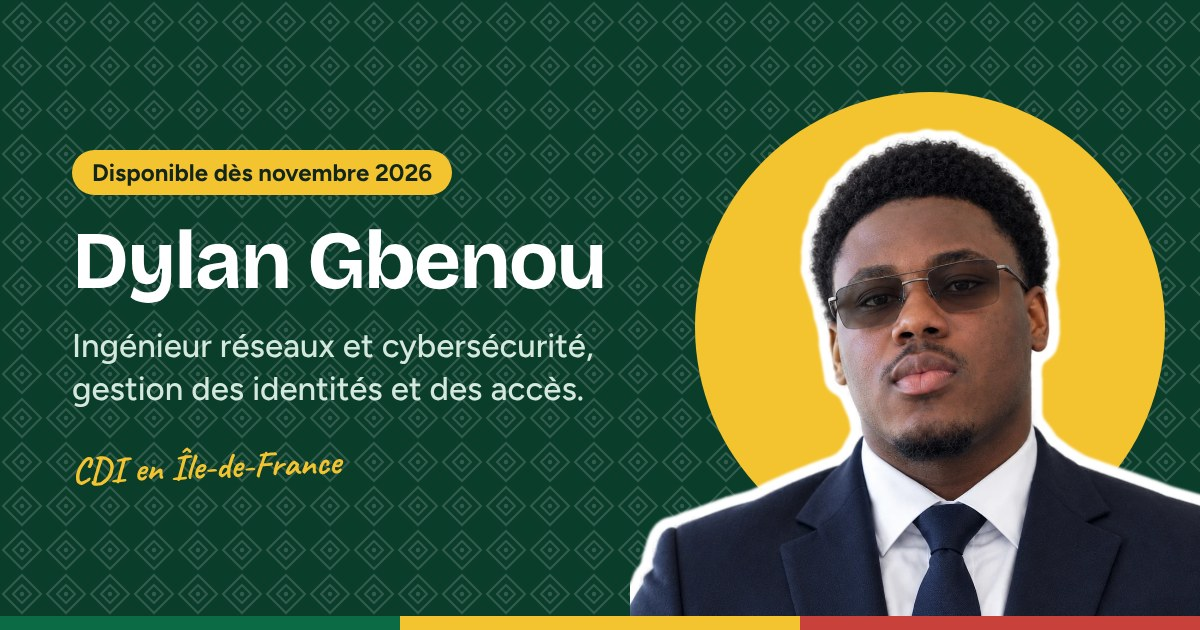
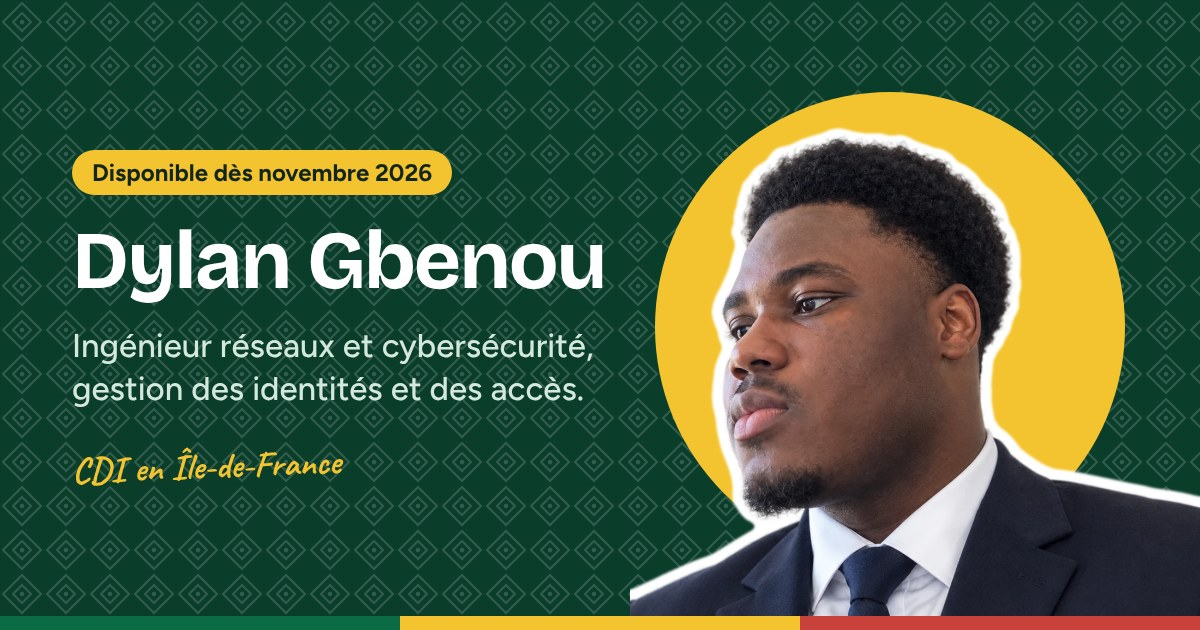
Add files via upload

Changed region(s): [[0.5242, 0.1206, 1.0, 0.9952], [0.8942, 0.8143, 0.925, 0.8444]]

diff --git a/index.html b/index.html
@@ -3,7 +3,7 @@
 <title>Dylan Gbenou, ingénieur réseaux et cybersécurité</title><meta name="description" content="Dylan Maxence Gbenou, ingénieur réseaux et cybersécurité spécialisé en gestion des identités et des accès. Disponible dès novembre 2026 pour un CDI en Île-de-France."><link rel="canonical" href="https://gbenoudylan.github.io/"><meta name="theme-color" content="#F6F8F6"><link rel="icon" type="image/webp" href="assets/avatar.webp"><link rel="apple-touch-icon" href="assets/apple-touch-icon.png">
 <meta property="og:type" content="website"><meta property="og:site_name" content="Dylan Gbenou"><meta property="og:url" content="https://gbenoudylan.github.io/"><meta property="og:title" content="Dylan Gbenou, ingénieur réseaux et cybersécurité"><meta property="og:description" content="Dylan Maxence Gbenou, ingénieur réseaux et cybersécurité spécialisé en gestion des identités et des accès. Disponible dès novembre 2026 pour un CDI en Île-de-France."><meta property="og:locale" content="fr_FR">
 <meta property="og:image" content="https://gbenoudylan.github.io/assets/og-image.jpg"><meta property="og:image:width" content="1200"><meta property="og:image:height" content="630"><meta property="og:image:alt" content="Dylan Gbenou, ingénieur réseaux et cybersécurité, à la recherche d'un CDI en Île-de-France">
-<meta name="twitter:card" content="summary_large_image"><meta name="twitter:title" content="Dylan Gbenou, ingénieur réseaux et cybersécurité"><meta name="twitter:description" content="Dylan Maxence Gbenou, ingénieur réseaux et cybersécurité spécialisé en gestion des identités et des accès. Disponible dès novembre 2026 pour un CDI en Île-de-France."><meta name="twitter:image" content="https://gbenoudylan.github.io/assets/og-image.jpg"><meta name="twitter:image:alt" content="Dylan Gbenou, ingénieur réseaux et cybersécurité, à la recherche d'un CDI en Île-de-France"><script type="application/ld+json">{"@context": "https://schema.org", "@type": "Person", "name": "Dylan Maxence Gbenou", "givenName": "Dylan", "familyName": "Gbenou", "url": "https://gbenoudylan.github.io/", "image": "https://gbenoudylan.github.io/assets/photo-sticker.webp", "jobTitle": "Ingénieur réseaux et cybersécurité (gestion des identités et des accès)", "description": "Ingénieur EIGSI (diplôme en mars 2027), spécialisé dans la gestion des identités et des accès. À la recherche d'un CDI en Île-de-France.", "knowsAbout": ["Cybersécurité", "Gestion des identités et des accès (IAM)", "Réseaux", "Cloud", "Terraform", "Python", "Active Directory"], "alumniOf": {"@type": "CollegeOrUniversity", "name": "EIGSI La Rochelle"}, "sameAs": ["https://www.linkedin.com/in/dylan-maxence-gbenou-709867218/", "https://github.com/gbenoudylan"]}</script>
+<meta name="twitter:card" content="summary_large_image"><meta name="twitter:title" content="Dylan Gbenou, ingénieur réseaux et cybersécurité"><meta name="twitter:description" content="Dylan Maxence Gbenou, ingénieur réseaux et cybersécurité spécialisé en gestion des identités et des accès. Disponible dès novembre 2026 pour un CDI en Île-de-France."><meta name="twitter:image" content="https://gbenoudylan.github.io/assets/og-image.jpg"><meta name="twitter:image:alt" content="Dylan Gbenou, ingénieur réseaux et cybersécurité, à la recherche d'un CDI en Île-de-France"><script type="application/ld+json">{"@context": "https://schema.org", "@type": "Person", "name": "Dylan Maxence Gbenou", "givenName": "Dylan", "familyName": "Gbenou", "url": "https://gbenoudylan.github.io/", "image": "https://gbenoudylan.github.io/assets/photo-sticker-sans-lunettes.webp", "jobTitle": "Ingénieur réseaux et cybersécurité (gestion des identités et des accès)", "description": "Ingénieur EIGSI (diplôme en mars 2027), spécialisé dans la gestion des identités et des accès. À la recherche d'un CDI en Île-de-France.", "knowsAbout": ["Cybersécurité", "Gestion des identités et des accès (IAM)", "Réseaux", "Cloud", "Terraform", "Python", "Active Directory"], "alumniOf": {"@type": "CollegeOrUniversity", "name": "EIGSI La Rochelle"}, "sameAs": ["https://www.linkedin.com/in/dylan-maxence-gbenou-709867218/", "https://github.com/gbenoudylan"]}</script>
 <link rel="preload" href="fonts/bricolage-grotesque-latin-wght-normal.woff2" as="font" type="font/woff2" crossorigin>
 <link rel="preload" href="fonts/figtree-latin-wght-normal.woff2" as="font" type="font/woff2" crossorigin>
 <link rel="preload" as="image" href="assets/photo-clean.webp" type="image/webp" fetchpriority="high"><script>document.documentElement.classList.add('js')</script>
@@ -25,7 +25,7 @@
   </div>
   <div class="portrait">
     <div class="portrait__back" aria-hidden="true"></div>
-    <div class="portrait__frame"><img class="portrait__img" src="assets/photo-clean.webp" width="1100" height="963" alt="Portrait de Dylan Gbenou, en costume sombre, chemise blanche et cravate, lunettes teintées, regardant sur le côté" fetchpriority="high" decoding="async"></div>
+    <div class="portrait__frame"><img class="portrait__img" src="assets/photo-clean.webp" width="1100" height="963" alt="Portrait de Dylan Gbenou, en costume sombre, chemise blanche et cravate, le regard tourné vers le haut et sur le côté" fetchpriority="high" decoding="async"></div>
     <span class="float float--a"><i></i>Gestion des accès</span><span class="float float--b"><i></i>Réseaux</span><span class="float float--c"><i></i>Cloud</span>
     <div class="hello" aria-hidden="true"><span>Enchanté !</span><svg viewBox="0 0 64 48" fill="none" stroke="currentColor" stroke-width="2.6" stroke-linecap="round" stroke-linejoin="round"><path d="M56 6C38 2 14 12 12 36"/><path d="M4 28l8 9 8-10"/></svg></div>
     <div class="portrait__badge"><svg class="badge" viewBox="0 0 120 120" role="img" aria-label="Réseaux, cybersécurité, IAM, cloud" xmlns="http://www.w3.org/2000/svg"><circle cx="60" cy="60" r="58" fill="#F4C430" stroke="#12261D" stroke-width="2.5"/><defs><path id="bdh" d="M60 60 m-41 0 a41 41 0 1 1 82 0 a41 41 0 1 1 -82 0"/></defs><g class="badge__ring" style="transform-origin:60px 60px"><text font-size="11.5" font-weight="700" fill="#12261D" letter-spacing=".2"><textPath href="#bdh" textLength="255" lengthAdjust="spacing">Réseaux · Cybersécurité · IAM · Cloud · </textPath></text></g><g transform="translate(40 38) scale(1.67)" fill="none" stroke="#12261D" stroke-width="1.7" stroke-linecap="round" stroke-linejoin="round"><path d="M12 3l7 3v5c0 4.5-3 8.3-7 10-4-1.7-7-5.5-7-10V6l7-3z" fill="#fff"/><path d="M9.5 12l2 2 3.5-4"/></g></svg></div>

diff --git a/404.html b/404.html
@@ -16,7 +16,7 @@
 </div></header>
 <main id="main">
 <section class="page-head"><div class="wrap"><div class="banner banner--d ">
-  <div class="banner__txt"><h1>Page introuvable</h1><p class="lead">Cette page n'existe pas, ou plus. Pas de panique : l'accueil et les projets sont juste là.</p></div><div class="banner__art banner__art--me"><img src="assets/photo-sticker.webp" width="1100" height="963" alt="Portrait de Dylan Gbenou, de face, en costume sombre et lunettes teintées" loading="lazy" decoding="async"><span class="hand hand--c" style="color:var(--yellow)" aria-hidden="true">Oups !</span></div>
+  <div class="banner__txt"><h1>Page introuvable</h1><p class="lead">Cette page n'existe pas, ou plus. Pas de panique : l'accueil et les projets sont juste là.</p></div><div class="banner__art banner__art--me"><img src="assets/photo-sticker-sans-lunettes.webp" width="1100" height="963" alt="Portrait de Dylan Gbenou, en costume sombre et cravate, le regard tourné vers le haut" loading="lazy" decoding="async"><span class="hand hand--c" style="color:var(--yellow)" aria-hidden="true">Oups !</span></div>
 </div></div></section>
 <section class="section" style="padding-top:0"><div class="wrap" style="display:flex;flex-wrap:wrap;gap:12px"><a class="btn btn--primary" href="index.html">Retour à l'accueil<svg class="go" viewBox="0 0 24 24" fill="none" stroke="currentColor" stroke-width="2" stroke-linecap="round" stroke-linejoin="round" aria-hidden="true" focusable="false"><path d="M5 12h14M13 6l6 6-6 6"/></svg></a><a class="btn btn--ghost" href="projets.html">Voir mes projets</a></div></section></main>
 <footer class="site-footer"><div class="wrap foot">

diff --git a/parcours.html b/parcours.html
@@ -16,7 +16,7 @@
 </div></header>
 <main id="main">
 <section class="page-head"><div class="wrap"><div class="banner banner--g ">
-  <div class="banner__txt"><h1>Parcours</h1><p class="lead">Du Bénin à la Côte d'Ivoire, en passant par La Rochelle et Paris : comment je suis arrivé à la cybersécurité.</p></div><div class="banner__art banner__art--me"><img src="assets/photo-sticker-bas.webp" width="1100" height="963" alt="Portrait de Dylan Gbenou, vu en légère contre-plongée, le regard au loin" loading="lazy" decoding="async"><span class="float float--1"><i></i>Cotonou</span><span class="float float--2"><i></i>La Rochelle</span><span class="float float--3"><i></i>Cergy</span></div>
+  <div class="banner__txt"><h1>Parcours</h1><p class="lead">Du Bénin à la Côte d'Ivoire, en passant par La Rochelle et Paris : comment je suis arrivé à la cybersécurité.</p></div><div class="banner__art banner__art--me"><img src="assets/photo-sticker-sans-lunettes.webp" width="1100" height="963" alt="Portrait de Dylan Gbenou, en costume sombre et cravate, le regard tourné vers le haut" loading="lazy" decoding="async"><span class="float float--1"><i></i>Cotonou</span><span class="float float--2"><i></i>La Rochelle</span><span class="float float--3"><i></i>Cergy</span></div>
 </div></div></section>
 <section class="section" style="padding-top:0"><div class="wrap about">
   <div class="prose">

diff --git a/contact.html b/contact.html
@@ -16,7 +16,7 @@
 </div></header>
 <main id="main">
 <section class="page-head"><div class="wrap"><div class="banner banner--y ">
-  <div class="banner__txt"><h1>Contact</h1><p class="lead">Je cherche un CDI à partir de novembre 2026, en Île-de-France, en cybersécurité, IAM ou infrastructure réseau.</p></div><div class="banner__art banner__art--me"><img src="assets/photo-sticker.webp" width="1100" height="963" alt="Portrait de Dylan Gbenou, de face, en costume sombre et lunettes teintées" loading="lazy" decoding="async"><span class="hand hand--c" aria-hidden="true">Écrivez-moi !</span></div>
+  <div class="banner__txt"><h1>Contact</h1><p class="lead">Je cherche un CDI à partir de novembre 2026, en Île-de-France, en cybersécurité, IAM ou infrastructure réseau.</p></div><div class="banner__art banner__art--me"><img src="assets/photo-sticker-sans-lunettes.webp" width="1100" height="963" alt="Portrait de Dylan Gbenou, en costume sombre et cravate, le regard tourné vers le haut" loading="lazy" decoding="async"><span class="hand hand--c" aria-hidden="true">Écrivez-moi !</span></div>
 </div></div></section>
 <section class="wrap" aria-label="Moyens de me contacter"><div class="contact">
   <div class="c-card c-card--main on-dark rv"><h2>Écrivez-moi</h2><p class="lead">Le plus simple est un e-mail. Dites-moi ce que vous cherchez, je vous réponds avec plaisir.</p>

diff --git a/site.css b/site.css
@@ -552,6 +552,7 @@ tr:last-child td{border-bottom:0}
   .banner__art .float{font-size:.82rem}
   .banner__art--me{--bleed:24px;width:calc(100% + 2 * var(--bleed));max-width:none;margin-left:calc(-1 * var(--bleed));margin-right:calc(-1 * var(--bleed))}
   .banner__art--me .float--1{left:10px}.banner__art--me .float--2{right:10px}
+  .banner__art--me .hand--c{left:20px;top:-5%}
   .grid,.pas-grid{grid-template-columns:1fr}
   .stats{grid-template-columns:1fr}
   .stat+.stat{border-left:0;border-top:1px solid rgba(255,255,255,.16)}
